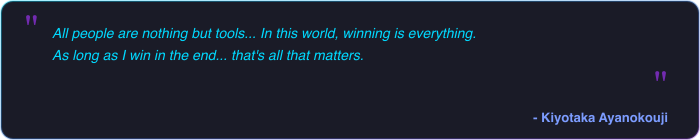
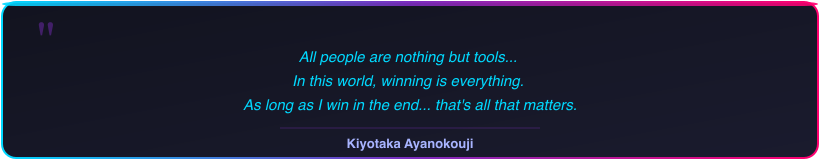
Fix GitHub stats cards and improve quote layout.
Use a working stats mirror and center the Ayanokouji quote with cleaner typography.

diff --git a/README.md b/README.md
@@ -86,8 +86,8 @@ I'm a **senior software engineer** who builds end-to-end products — from polis
 ### 📊 GitHub Stats
 
 <div align="center">
-  <img height="180em" src="https://github-readme-stats.vercel.app/api?username=Wahabshk07&show_icons=true&theme=tokyonight&hide_border=true&count_private=true" alt="Wahab's GitHub stats" />
-  <img height="180em" src="https://github-readme-stats.vercel.app/api/top-langs/?username=Wahabshk07&layout=compact&theme=tokyonight&hide_border=true" alt="Top languages" />
+  <img height="165" src="https://github-readme-stats-sigma-five.vercel.app/api?username=Wahabshk07&show_icons=true&theme=tokyonight&hide_border=true&include_all_commits=true&count_private=true" alt="Wahab's GitHub stats" />
+  <img height="165" src="https://github-readme-stats-sigma-five.vercel.app/api/top-langs/?username=Wahabshk07&layout=compact&theme=tokyonight&hide_border=true&langs_count=8" alt="Top languages" />
 </div>
 
 <div align="center">
@@ -135,7 +135,7 @@ I'm a **senior software engineer** who builds end-to-end products — from polis
 </div>
 
 <div align="center">
-  <img src="https://raw.githubusercontent.com/Wahabshk07/Wahabshk07/main/assets/quote.png" alt="All people are nothing but tools... — Kiyotaka Ayanokouji" />
+  <img src="https://raw.githubusercontent.com/Wahabshk07/Wahabshk07/main/assets/quote.png" alt="All people are nothing but tools... — Kiyotaka Ayanokouji" width="820" />
 </div>
 
 ---
